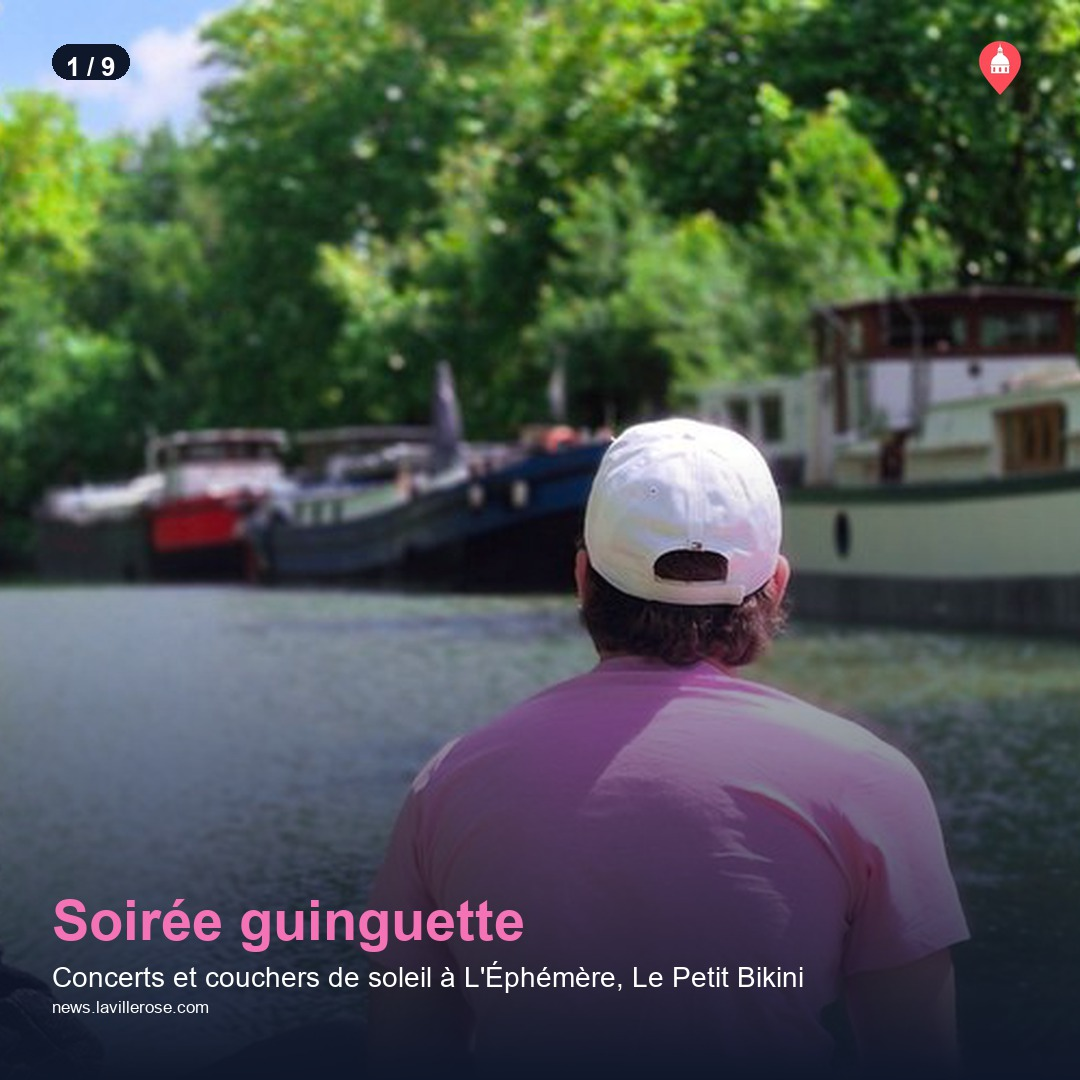
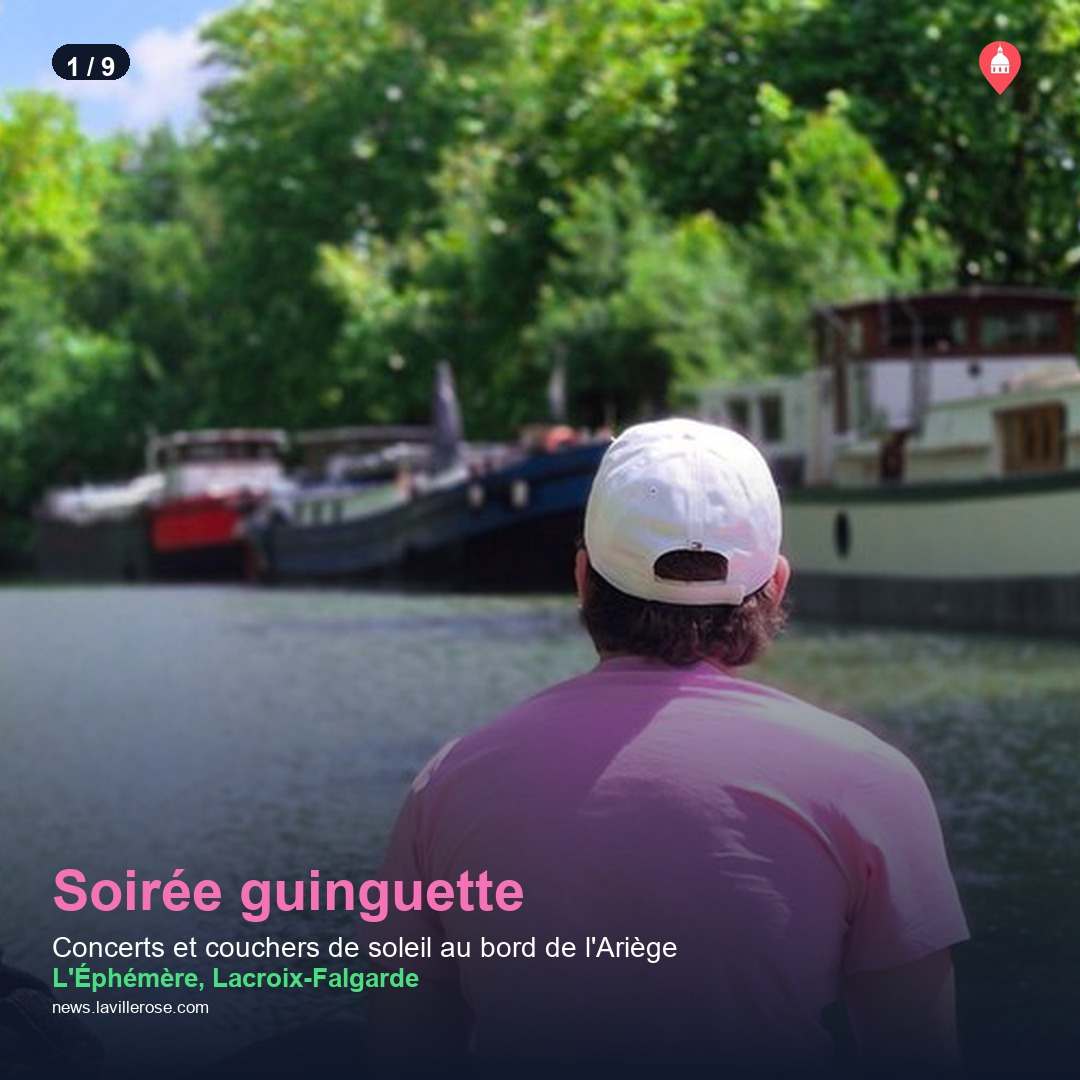
Add venue location line to listicle item slides
Renders item.location in green below the description when present,
matching the venue-display convention used elsewhere (stories, weekend
carousel). Also tightens the synthesis prompt: listicle_items now asks
for a location field and for descriptions to name actual venues from
the source text rather than generic town/category names — feedback
from reviewing the first live test post, where "Bonnes tables locales"
showed a specific restaurant photo but the caption gave no way to tell
which restaurant it was.

Changed region(s): [[0.0306, 0.7944, 0.7639, 0.9167]]

diff --git a/src/instagram.py b/src/instagram.py
@@ -1121,18 +1121,23 @@ def _render_listicle_item_slide(item: dict[str, Any], n: int, total: int, img_ur
     draw.rounded_rectangle([PAD, 44, PAD + nw, 44 + nh], radius=nh // 2, fill=(15, 23, 42, 200))
     draw.text((PAD + 14, 44 + 8), num_str, font=f_num, fill=COL_WHITE)
 
-    item_title = item.get("title", "")
-    item_desc  = item.get("description", "")
+    item_title    = item.get("title", "")
+    item_desc     = item.get("description", "")
+    item_location = (item.get("location") or "").strip()
+
+    f_loc = _load_font(26, bold=True)
 
     title_lines = _wrap_text(item_title, f_title, W - PAD * 2, draw)[:2]
     desc_lines  = _wrap_text(item_desc,  f_desc,  W - PAD * 2, draw)[:2]
 
     lh_t   = draw.textbbox((0, 0), "Ag", font=f_title)[3]
     lh_d   = draw.textbbox((0, 0), "A",  font=f_desc)[3]
+    lh_l   = draw.textbbox((0, 0), "A",  font=f_loc)[3] + 6 if item_location else 0
     site_h = draw.textbbox((0, 0), "A",  font=f_tiny)[3]
 
     total_h = (len(title_lines) * (lh_t + 8) + 12
                + len(desc_lines) * (lh_d + 6)
+               + lh_l
                + site_h + 8)
     y = H - PAD - total_h
 
@@ -1143,6 +1148,10 @@ def _render_listicle_item_slide(item: dict[str, Any], n: int, total: int, img_ur
     for line in desc_lines:
         draw.text((PAD, y), line, font=f_desc, fill=(255, 255, 255, 200))
         y += lh_d + 6
+
+    if item_location:
+        draw.text((PAD, y), item_location, font=f_loc, fill=COL_GREEN)
+        y += lh_l
 
     draw.text((PAD, y + 4), SITE_LABEL, font=f_tiny, fill=(255, 255, 255, 70))
 
@@ -1191,7 +1200,8 @@ def render_listicle_carousels(conn, out_dir: Path) -> list[str]:
                 slide = _render_listicle_item_slide(item, i, len(items), effective_img)
                 slide_file = f"{safe_cid}_listicle_{i:02d}.jpg"
                 slide.save(str(out_dir / slide_file), "JPEG", quality=92)
-                slides.append({"file": slide_file, "type": "item", "title": item.get("title", "")})
+                slides.append({"file": slide_file, "type": "item", "title": item.get("title", ""),
+                                "location": item.get("location", "")})
                 print(f"  instagram listicle: slide {i}/{len(items)} — {item.get('title','')[:40]}")
 
             manifest = {

diff --git a/prompts/synthesise.md b/prompts/synthesise.md
@@ -19,7 +19,7 @@ Generate:
 7. Generate 20–25 Instagram hashtags (ig_hashtags): start with high-volume discovery tags (toulouse, sortiraToulouse, toulouse2026), then add specific tags for the venue, neighbourhood, event type, and topic (#theatresorano #capitole #carmes #spectacle #été2026 #gastronomie etc.). All in French or topic-specific. No filler. Return as a JSON array of strings without the # prefix.
 8. Venue (venue): the specific place where this event or thing takes place — just the name, no prepositions (e.g. "place de la Daurade", "Mama Shelter", "Halle aux Grains", "Médiathèque d'Empalot", "Stadium de Toulouse"). For multi-venue events use the most prominent. Return null for generic news or events with no fixed venue.
 9. Instagram @mention (ig_mention): the most likely Instagram handle of the main venue or organiser. Use the known handle for well-known Toulouse institutions (e.g. theatresorano, orchestreducapitole, citedelespace, toulouse_tourisme, frenchtechtoulouse, tangopostale). For others, construct the most plausible handle from the venue name (e.g. mediatheque_cabanis, cafejoyeuxtoulouse). Return null only for generic news with no specific venue or organiser.
-10. Listicle detection (listicle_items): if this article is a ranked or curated list ("top 10 lacs", "10 sorties incontournables", "7 choses à faire", "sélection de X adresses", "les meilleurs X", etc.), extract up to 10 items as listicle_items: [{title: "≤5 words", "description": "≤12 words, one concrete detail"}]. For all other articles set listicle_items to null.
+10. Listicle detection (listicle_items): if this article is a ranked or curated list ("top 10 lacs", "10 sorties incontournables", "7 choses à faire", "sélection de X adresses", "les meilleurs X", etc.), extract up to 10 items as listicle_items: [{title: "≤5 words", "description": "≤12 words, one concrete detail", "location": "specific place name(s), or null"}]. The description must name concrete specifics (actual venue/place names, not just a town or generic category) whenever the source text gives them — "Restaurants étoilés à Aureville" is too vague if the article actually names "En Marge, Aureville"; use the real name. location is the specific venue(s) mentioned for that item (e.g. "En Marge, Aureville" or "L'Éphémère, Lacroix-Falgarde") — null if the item covers a general activity with no single named place. For all other articles set listicle_items to null.
 11. Pick exactly one category for the cluster:
    - "news": hard news, civic announcements, weather alerts, sports results, politics, public-safety updates, current events.
    - "event": dedicated event listings with specific attendance details (venue, date, time) — concert listings, festival programmes, exhibition schedules, market dates. The content should be primarily an invitation to attend, not a news article that mentions an event in passing. A news story about an artist performing, a review of an event, or an article that reports on something happening is "news", not "event".
@@ -55,5 +55,5 @@ Return ONLY a JSON object, no preamble or code fences. Schema:
   "ig_hashtags": ["toulouse", "sortiraToulouse", ...] or null,
   "venue": "place de la Daurade" or null,
   "ig_mention": "theatresorano" or null,
-  "listicle_items": [{"title": "Lac de Plaisance", "description": "baignade gratuite, 10 min de Toulouse"}] or null
+  "listicle_items": [{"title": "Lac de Plaisance", "description": "baignade gratuite, 10 min de Toulouse", "location": "Lac de Plaisance, Sesquières"}] or null
 }
